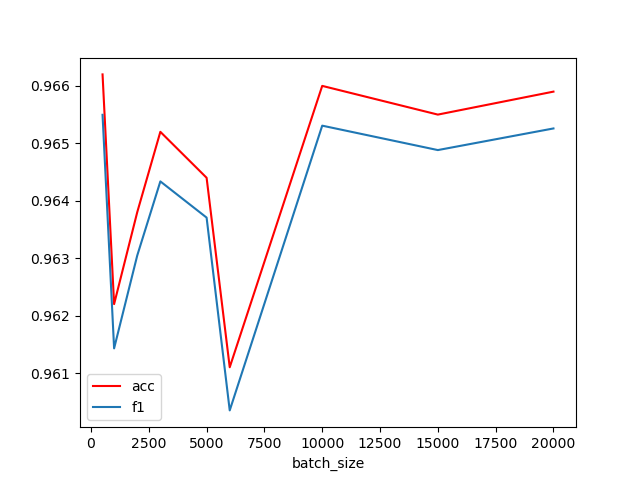
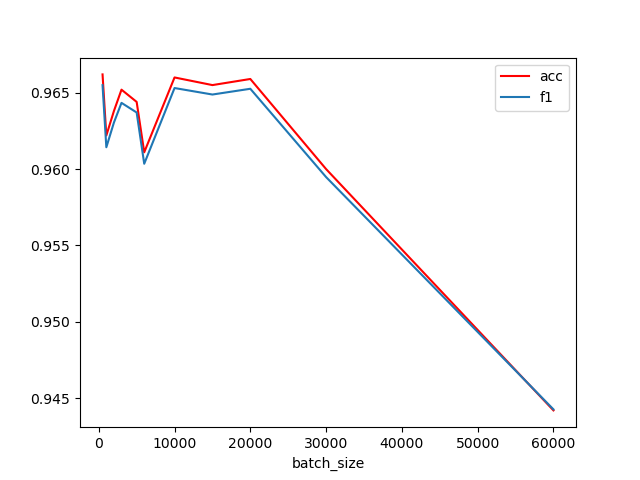
early stop

diff --git a/main_optimizer.py b/main_optimizer.py
@@ -300,8 +300,9 @@ all_f1 = []
 all_acc = []
 big_acc = 100
 big_f = 0
+decrease_epoch = 0
 
-optimize_type = "kl"
+optimize_type = "optimizer"
 loss_type = "sum"
 ratio = 1
 
@@ -555,6 +556,7 @@ for imgs in training_iterator:
 
         if training_iterator._finished_epoch != epoch:
             epoch_num += 1
+            decrease_epoch += 1
             # adjust_lr(optimizer_D, epoch_num)
             # adjust_lr(optimizer_R, epoch_num)
             epoch = training_iterator._finished_epoch
@@ -607,8 +609,13 @@ for imgs in training_iterator:
 
             if acc < big_acc:
                 big_acc = acc
+                decrease_epoch = 0
             if f1 > big_f:
                 big_f = f1
+                decrease_epoch = 0
+
+            if decrease_epoch >= 30 or acc - big_acc >= 0.03 or big_f - f1 >= 0.03:
+                break
         # batches_done = training_iterator._finished_epoch * training_iterator._len + i
         i = i + 1
         # if batches_done % opt.sample_interval == 0:

diff --git a/dataframe/optimizer/plot.py b/dataframe/optimizer/plot.py
@@ -1,11 +1,18 @@
 import pandas as pd
 import matplotlib.pyplot as plt
 
-df1 = pd.read_csv("mnist_adam.csv")
-df2 = pd.read_csv("mnist_nadam.csv")
-ax = plt.gca()
-df1.reset_index().plot(kind='line', x='index', y='f1', ylabel="Adam", ax=ax)
-df1.reset_index().plot(kind='line', x='index', y='f1', ylabel="NAdam", color='red', ax=ax)
+dataset = "news"
+df = pd.read_csv(f"{dataset}_adam.csv")
+max_f1 = df["f1"].max()
+id_max_f1 = df["f1"].idxmax()
+max_acc = df["acc"].max()
+id_max_acc = df["acc"].idxmax()
 
+ax = plt.gca()
+df.reset_index().plot(kind='line', x='index', y='f1', ax=ax)
+df.reset_index().plot(kind='line', x='index', y='acc', color='red', ax=ax)
+
+plt.plot(id_max_f1, max_f1, "o")
+plt.plot(id_max_acc, max_acc, "x")
 # plt.show()
-plt.savefig("mnist.png")
+plt.savefig(f"{dataset}.png")

diff --git a/dataframe/batch/plot.py b/dataframe/batch/plot.py
@@ -1,8 +1,9 @@
 import pandas as pd
 import matplotlib.pyplot as plt
 
-dataset = "news"
-batch_sizes = [300, 500, 1000, 2000, 3000, 4000, 6000]
+dataset = "mnist"
+# batch_sizes = [300, 500, 1000, 2000, 3000, 4000, 6000]
+batch_sizes = [500, 1000, 2000, 3000, 5000, 6000, 10000, 15000, 20000, 30000, 60000]
 
 summary = {"batch_size": [], "acc": [], "f1": []}
 # df = pd.read_csv("mnist_original.csv")
